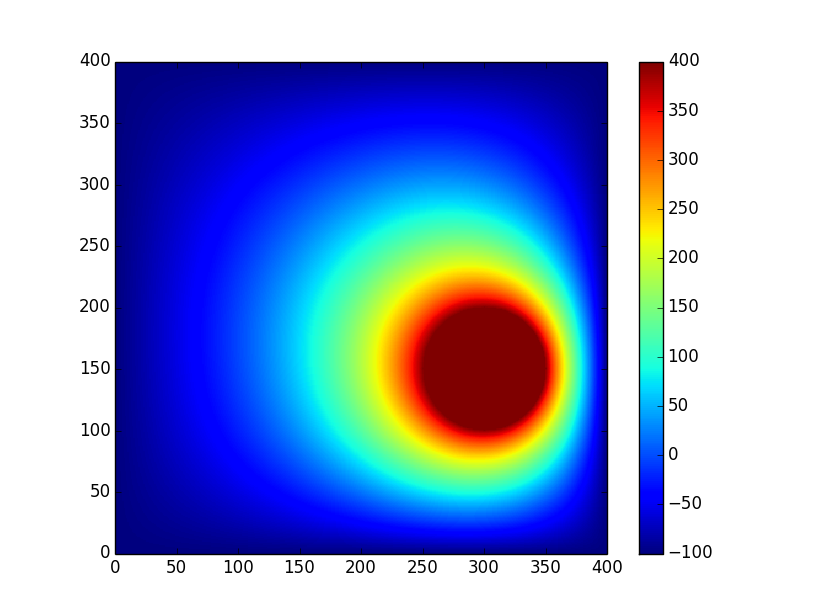
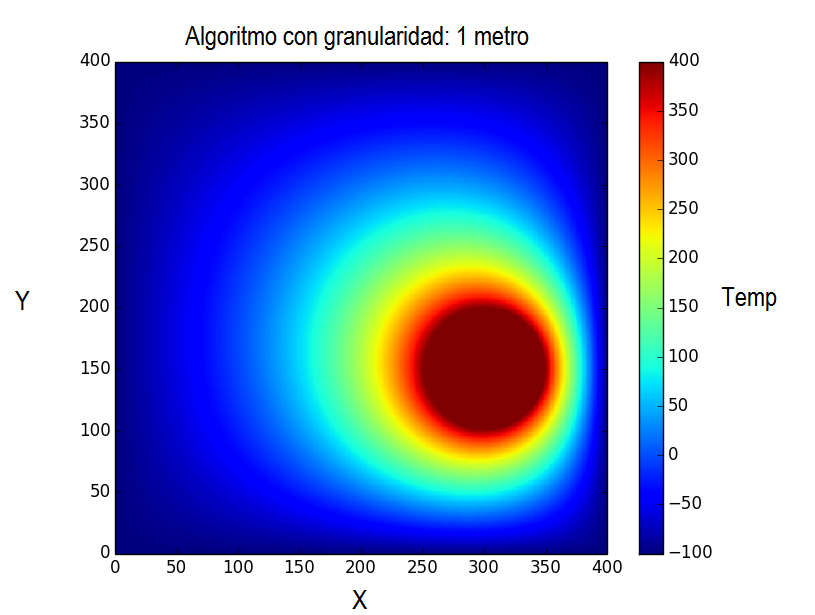
agregado de algunas imagenes en el informe.
modificacion imagenes para que tengan labels

diff --git a/tp1-mn/src/informe/informe.tex b/tp1-mn/src/informe/informe.tex
@@ -311,6 +311,69 @@ Nos queda entonces este simple pseudocódigo para resolver el problema propuesto
 
 \subsection{Experimentación}
 
+	En esta sección utilizaremos distintos gráficos para detallar los experimentos realizados. 
+
+	Utilizamos gráficos de temperatura para validar el funcionamiento de nuestro algoritmo heurístico de eliminación de sanguijuelas. A continuación vemos el resultado del algoritmo sin eliminación, y posteriormente, el resultado con ella.
+
+	\begin{center}
+		\includegraphics[width=\textwidth]{./img/test5_sinkill.png}
+	\end{center}
+
+	\begin{center}
+		\includegraphics[width=\textwidth]{./img/test5_conkill.png}
+	\end{center}
+
+	Como ya mencionamos, la heurística consta de eliminar las sanguijuelas más cercanas al centro del parabrisas hasta que el punto crítico sea menor al umbral. En este ejemplo, se eliminaron 3 sanguijueals para lograr el objetivo.
+
+	Este algoritmo posee como caso borde que las sanguijuelas se encuentren equidistantes con el centro del parabrisa. Los siguientes dos gráficos muestras el algoritmo sin y con eliminación respectivamente. La desición sobre qué sanguijuela eliminar es arbitraria y depende de cómo fue instanciado.
+
+	\begin{center}
+		\includegraphics[width=\textwidth]{./img/test6_sinkill.png}
+	\end{center}
+
+	\begin{center}
+		\includegraphics[width=\textwidth]{./img/test6_conkill.png}
+	\end{center}
+
+	En nuestro caso, la sanguijuela izquierda fue eliminada.
+
+	Cabe destacar que no siempre el resultado es el óptimo, es decir, no siempre se minimiza la cantidad de sanguijuelas removidas. Si tenemos un caso donde las sanguijuelas están equidistantes al centro del parabrisa, no se contabiliza en la desición de remoción la distancía al borde del parabrisa. El frió que emana de los bordes influye significativamente en el impacto que la sanguijuela tiene en el centro.
+
+	Los tests anteriores poseen granularidad fija. Para vislumbrar cuál es el impacto de modificarla, utilizaremos nuevamente gráficos de temperatura. En todos los gráficos fijamos el tamaño del parabrisa (400 metros por 400 metros), la cantidad de sanguijuelas (una); y su temperatura (400 grados).
+
+	\begin{center}
+		\includegraphics[width=\textwidth]{./img/granularidad/g50_t400_sinkill.png}
+	\end{center}
+
+	El valor de temperatura en cada cuadrado de 50 x 50 es marcado, la diferencia entre bloques contiguos es muy alta. Es difícil distinguir a la sanguijuela ya que su forma no es circular.
+
+	\begin{center}
+		\includegraphics[width=\textwidth]{./img/granularidad/g20_t400_sinkill.png}
+	\end{center}
+
+	La sanguijuela comienza a identificarse y se forman anillos con temperaturas decrecientes alrededor de ella. La distribución de la temperatura parece más homogénea.
+
+	\begin{center}
+		\includegraphics[width=\textwidth]{./img/granularidad/g5_t400_sinkill.png}
+	\end{center}
+
+	El círculo de la sanguijuela ahora sí es completamente distinguible. Exceptuando los valores saturados, la temperatura a nivel global (y en el centro del parabrisas) parece aumentar. Esto puede deberse a que al tener una mayor granularidad, el algoritmo puede dispersar mejor el calor, ajustándose mejor a la realidad.
+
+	\begin{center}
+		\includegraphics[width=\textwidth]{./img/granularidad/g1_t400_sinkill.png}
+	\end{center}
+
+	La buena resolución de este gráfico permite tener una apreciación detallada sobre la dispersión de calor. Contribuye a la hipótesis: "Cuando más resolución, mejor dispersión de calor". Sin embargo, como se verá más adelante en este trabajo, existe una estrecha relación entre tiempo de cómputo y presición de los resultados. 
+
+	Veamos entonces cómo cambia la temperatura en el punto central a medida que se modifica la granularidad.
+
+
+	PONER GRAFICO DE TEMPERATURA EN PUNTO CENTRAL A MEDIDA QUE CAMBIA GRANULARIDAD
+	PONER GRAFICO DE TEMPERATURA EN PUNTO CENTRAL A MEDIDA QUE CAMBIA GRANULARIDAD
+	PONER GRAFICO DE TEMPERATURA EN PUNTO CENTRAL A MEDIDA QUE CAMBIA GRANULARIDAD
+	PONER GRAFICO DE TEMPERATURA EN PUNTO CENTRAL A MEDIDA QUE CAMBIA GRANULARIDAD
+	PONER GRAFICO DE TEMPERATURA EN PUNTO CENTRAL A MEDIDA QUE CAMBIA GRANULARIDAD	PONER GRAFICO DE TEMPERATURA EN PUNTO CENTRAL A MEDIDA QUE CAMBIA GRANULARIDAD
+
 \section{Conclusión}
 
 \section{Apéndice}
